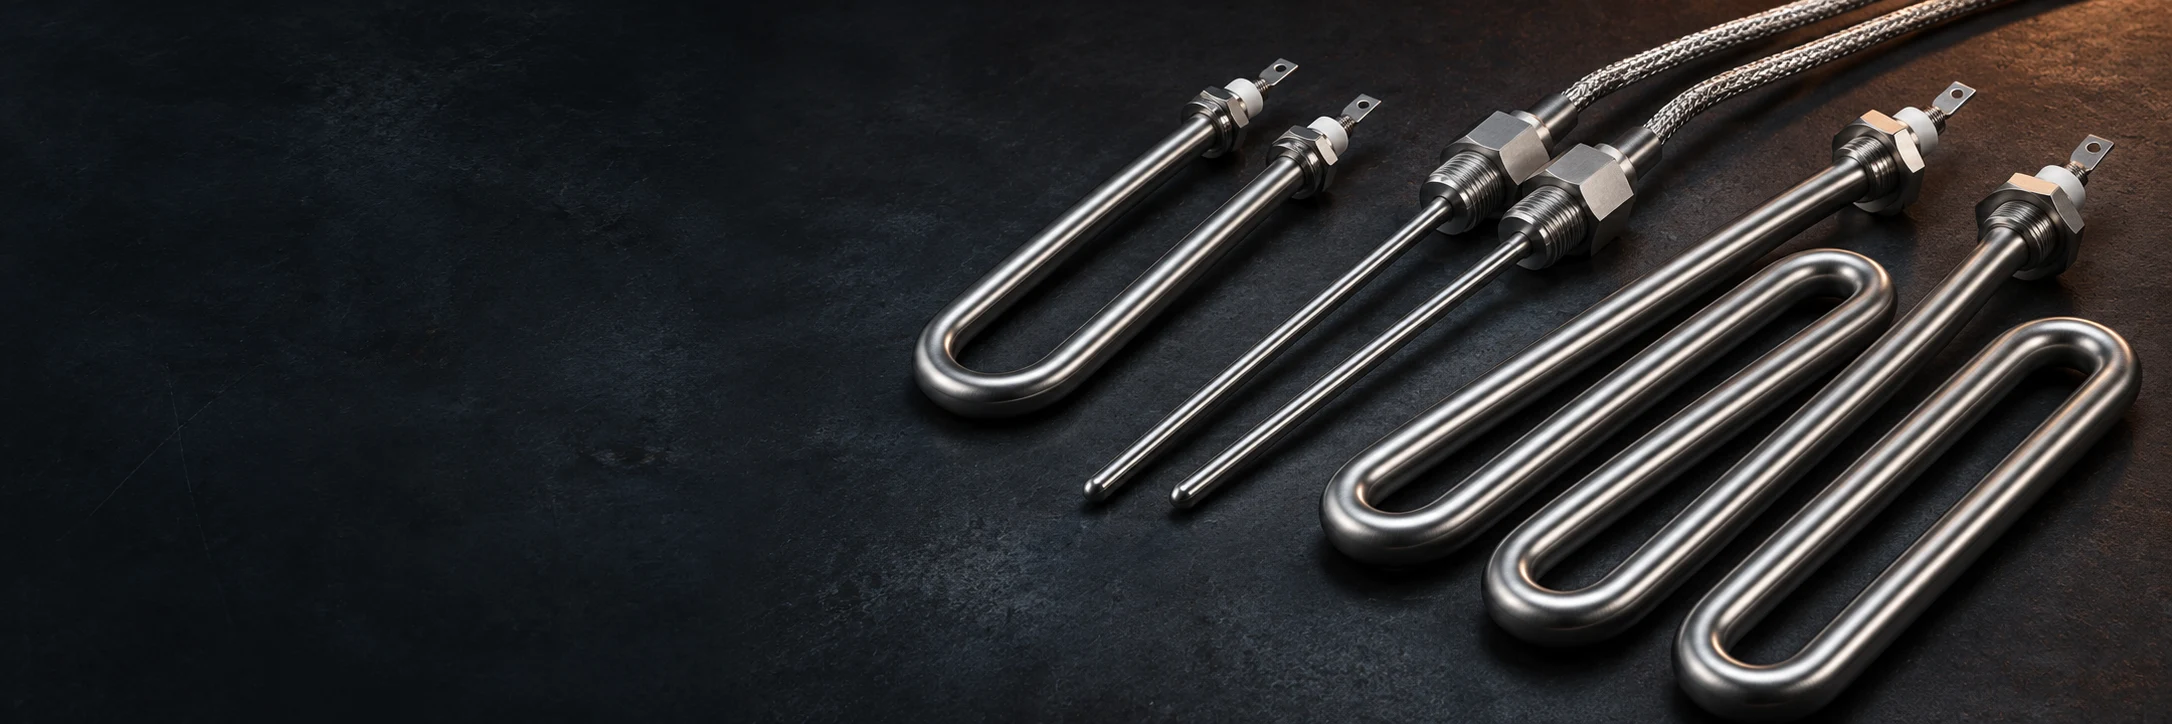
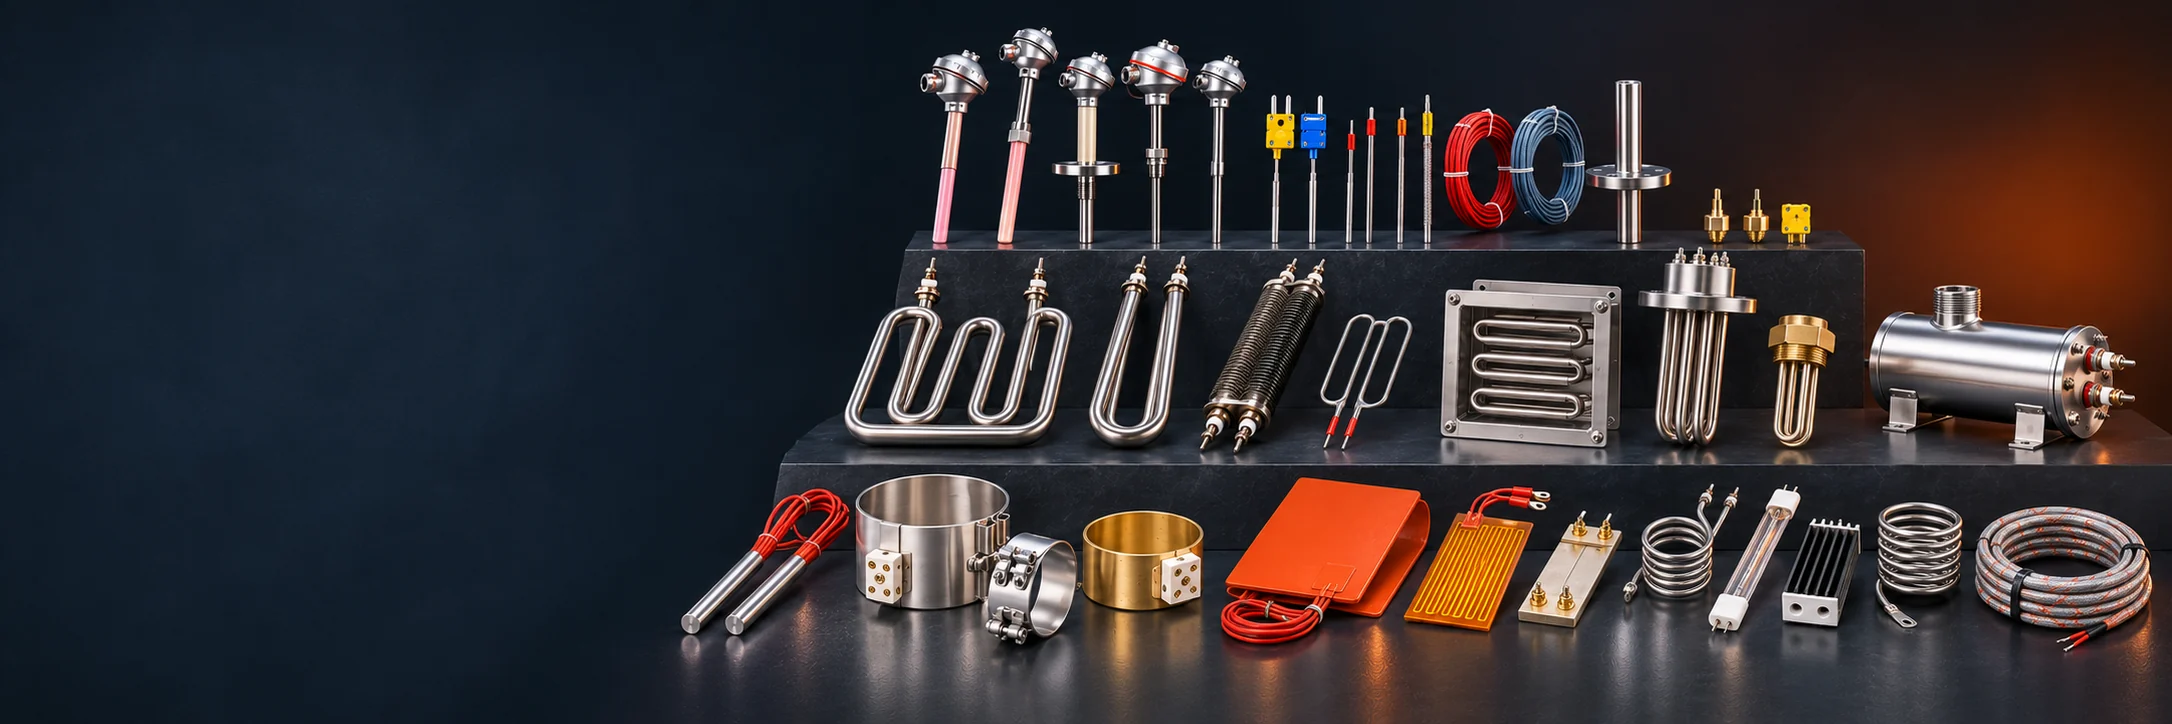
Refresh homepage hero with the industrial product lineup

diff --git a/public/styles.css b/public/styles.css
@@ -262,8 +262,19 @@ svg:not(.symbols) {
   min-height: 478px;
   display: grid;
   align-items: center;
-  background: #151a1e url("/assets/industrial-heating.webp") center right/cover
-    no-repeat;
+  overflow: clip;
+  background: #10171d;
+}
+.hero::after {
+  content: "";
+  position: absolute;
+  right: 0;
+  bottom: 0;
+  z-index: -2;
+  width: min(100%, 1536px);
+  aspect-ratio: 3;
+  background: url("/assets/industrial-heating.webp") center / cover no-repeat;
+  mask-image: linear-gradient(transparent, #000 7%);
 }
 .hero::before {
   content: "";
@@ -987,7 +998,9 @@ svg:not(.symbols) {
   }
   .hero {
     min-height: 435px;
-    background-position: 65% center;
+  }
+  .hero::after {
+    width: 128%;
   }
   .hero::before {
     background: linear-gradient(
@@ -1057,15 +1070,31 @@ svg:not(.symbols) {
     font-size: 12.5px;
   }
   .hero {
-    background-position: 63% center;
     min-height: 425px;
   }
+  .hero::after {
+    width: 146%;
+  }
+  .hero::before {
+    background: linear-gradient(
+      180deg,
+      #10171d 0%,
+      #10171d 39%,
+      #10171dc9 54%,
+      #10171d47 72%,
+      transparent 88%
+    );
+  }
   .hero-inner {
-    padding-block: 51px;
+    padding-block: 18px 104px;
   }
   .hero-copy {
     max-width: 310px;
     font-size: 0.96rem;
+    margin-top: 14px;
+  }
+  .hero .actions {
+    margin-top: 16px;
   }
   .hero-eyebrow,
   .eyebrow {
